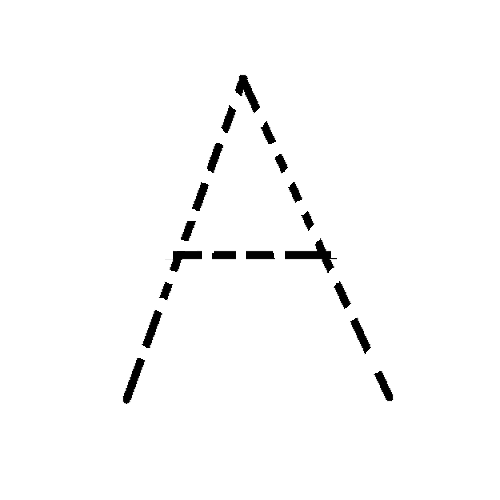
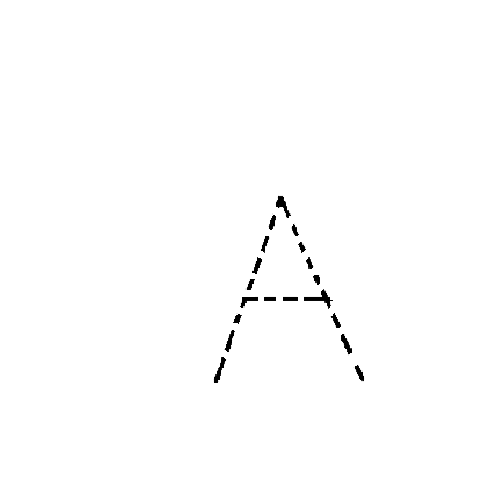
finished

diff --git a/src/pages/Game/Game.jsx b/src/pages/Game/Game.jsx
@@ -9,6 +9,19 @@ import dog from "../../Images/dog.jpg";
 import cow from "../../Images/cow.png";
 import apple from "../../Images/apple.jpg";
 import banana from "../../Images/banana.jpg";
+import A from "../../Images/A.png";
+import B from "../../Images/B.png";
+import C from "../../Images/C.png";
+import D from "../../Images/D.png";
+import E from "../../Images/E.png";
+import G from "../../Images/G.png";
+import L from "../../Images/L.png";
+import N from "../../Images/N.png";
+import O from "../../Images/O.png";
+import P from "../../Images/P.png";
+import T from "../../Images/T.png";
+import W from "../../Images/W.png";
+import diamond_armor from "../../Images/diamond_armor.png";
 import Modal from "react-modal";
 import { FontAwesomeIcon } from "@fortawesome/react-fontawesome";
 import { faGrinWink } from "@fortawesome/free-solid-svg-icons";
@@ -28,6 +41,7 @@ const Game = () => {
 	const [missingLetter, setMissingLetter] = useState();
 	const [missingLetterIndex, setMissingLetterIndex] = useState();
 	const [modalIsOpen, setIsOpen] = useState(false);
+	const [imgSrc, setImgSrc] = useState();
 
 	function openModal() {
 		setIsOpen(true);
@@ -54,10 +68,8 @@ const Game = () => {
 	}, []);
 
 	useEffect(() => {
-		if (wins === 3) {
-			setWins(0);
-			return;
-		}
+		if (!wins) return;
+		setImgSrc();
 		openModal();
 		setTimeout(() => {
 			closeModal();
@@ -65,18 +77,35 @@ const Game = () => {
 	}, [wins]);
 
 	useEffect(() => {
+		console.log(loses);
 		if (loses === 3) {
+			setLoses(0);
+			if (missingLetter === "A") setImgSrc(A);
+			if (missingLetter === "B") setImgSrc(B);
+			if (missingLetter === "C") setImgSrc(C);
+			if (missingLetter === "D") setImgSrc(D);
+			if (missingLetter === "E") setImgSrc(E);
+			if (missingLetter === "G") setImgSrc(G);
+			if (missingLetter === "L") setImgSrc(L);
+			if (missingLetter === "N") setImgSrc(N);
+			if (missingLetter === "O") setImgSrc(O);
+			if (missingLetter === "P") setImgSrc(P);
+			if (missingLetter === "T") setImgSrc(T);
+			if (missingLetter === "W") setImgSrc(W);
 		}
 	}, [loses]);
 
 	useEffect(() => {
 		if (!result) {
+			return;
+		}
+		if (result?.letter !== missingLetter) {
 			setLoses((prev) => prev + 1);
 			return;
 		}
 		let extraPoints = 1;
 		if (seconds < 19) extraPoints = 20 - seconds;
-		setScore((prev) => prev + 100 * extraPoints);
+		setScore((prev) => prev + 100 * extraPoints * result?.certain);
 		setWins((prev) => prev + 1);
 		setAnimalIndex((prev) => prev + 1);
 		clearInterval(intervalToClear);
@@ -128,6 +157,7 @@ const Game = () => {
 					</div>
 					<div ref={midDivRef} className="midSection">
 						<Canvas
+							style={imgSrc}
 							className="canvas"
 							parent={midDivRef}
 							setResult={setResult}
@@ -192,8 +222,17 @@ const Game = () => {
 					},
 				}}
 			>
-				Good Job!
-				<FontAwesomeIcon icon={faGrinWink} />
+				{wins % 3 !== 0 ? (
+					<>
+						Good Job!
+						<FontAwesomeIcon icon={faGrinWink} />
+					</>
+				) : (
+					<>
+						Array! new item!
+						<img alt={""} src={diamond_armor} />
+					</>
+				)}
 			</Modal>
 		</>
 	);

diff --git a/src/components/Canvas/Canvas.jsx b/src/components/Canvas/Canvas.jsx
@@ -3,7 +3,13 @@ import axios from "axios";
 import cropImageFromCanvas from "./canvasFunctions";
 import useDebounce from "./debounce";
 
-const Canvas = ({ parent, setIsSearching, setResult, missingLetter }) => {
+const Canvas = ({
+	parent,
+	setIsSearching,
+	setResult,
+	missingLetter,
+	style,
+}) => {
 	const [isDrawing, setIsDrawing] = useState();
 	const [canvasImg, setCanvasImg] = useState();
 
@@ -16,11 +22,11 @@ const Canvas = ({ parent, setIsSearching, setResult, missingLetter }) => {
 		if (debouncedSearchTerm) {
 			setIsSearching(true);
 
-			console.log(debouncedSearchTerm);
+			setResult({ res: 5 });
 
 			axios({
 				method: "post",
-				url: "https://abc-drawing-game-server.herokuapp.com/bad_prediction",
+				url: "https://abc-drawing-game-server.herokuapp.com/json",
 				headers: {
 					"Access-Control-Allow-Origin": "*",
 					"Content-Type": "application/json",
@@ -95,6 +101,7 @@ const Canvas = ({ parent, setIsSearching, setResult, missingLetter }) => {
 	return (
 		<>
 			<canvas
+				style={style && { backgroundImage: `url(${style})` }}
 				onMouseDown={startDrawing}
 				onMouseUp={finishDrawing}
 				onMouseMove={draw}

diff --git a/src/pages/Game/Game.css b/src/pages/Game/Game.css
@@ -101,6 +101,7 @@
 
 .canvas {
 	position: absolute;
+	z-index: 1;
 }
 
 .mascot {
@@ -126,4 +127,11 @@
 	position: absolute;
 	left: 25px;
 	top: 170px;
+}
+
+.back-img {
+	position: absolute;
+	bottom: 10px;
+	right: 40%;
+	z-index: 1;
 }
